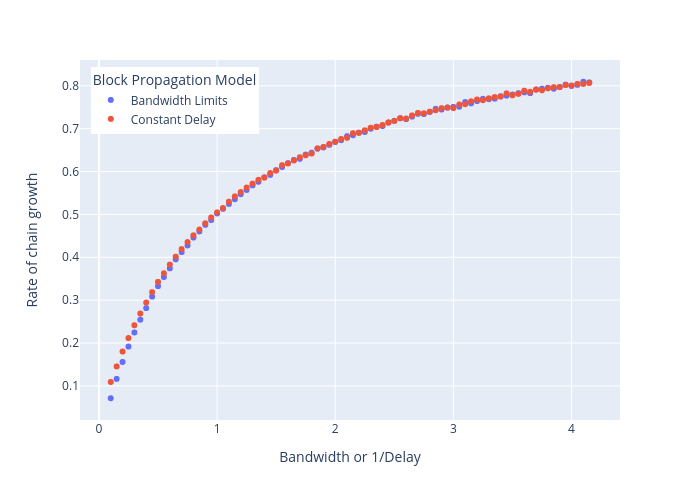
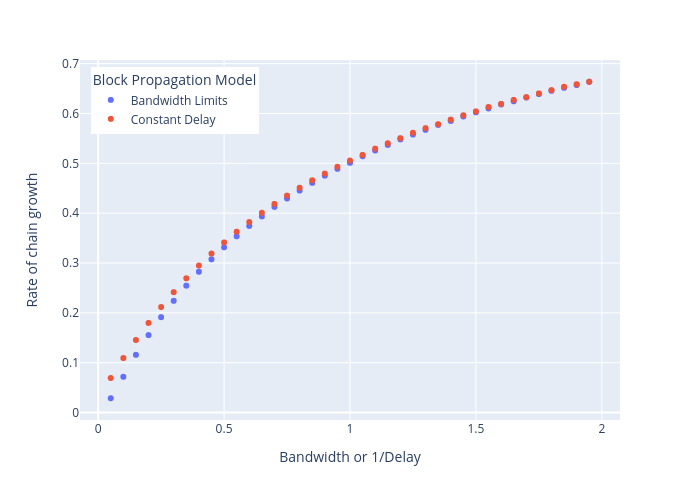
more extensive runs

diff --git a/experiment_honest_growth/collect.py b/experiment_honest_growth/collect.py
@@ -7,6 +7,7 @@ import plotly.express as px  # type: ignore
 import plotly.graph_objects as go  # type:ignore
 import numpy as np
 import math
+import tqdm
 
 BASE_PATH = os.path.split(os.path.split(os.path.abspath(__file__))[0])[0]
 PYTHON_PATH = "python"
@@ -17,7 +18,7 @@ delay_data: Dict[float, List[float]] = dict()
 
 # read data from files
 print("Reading files...")
-for file_name in os.listdir(DATA_PATH):
+for file_name in tqdm.tqdm(os.listdir(DATA_PATH)):
     if not file_name.endswith(".json"):
         continue
     try:
@@ -56,7 +57,7 @@ delay_growth_values = [sum(delay_data[delay])/len(delay_data[delay])
 delay_error_values = [np.std(delay_data[delay]) /
                       math.sqrt(len(delay_data[delay])) for delay in delay_values]
 
-
+print("Max stdev:", max(bw_error_values), max(delay_error_values))
 print("Creating plot...")
 draw_type = ["Bandwidth Limits"]*len(bw_values) + \
     ["Constant Delay"]*len(adjusted_delay_values)

diff --git a/experiment_honest_growth/run.py b/experiment_honest_growth/run.py
@@ -27,8 +27,8 @@ OUTPUT_PATH = os.path.join(BASE_PATH, "experiment_honest_growth/data/")
 base_arguments = ["--run_time 10000", "--num_honest 100",
                   "--pow_honest 0.01"]  # "--header_delay 0"  "--bandwidth -1"
 
-bandwidth_range = numpy.arange(0.1, 4.2, 0.05)
-num_repetitions = 10
+bandwidth_range = numpy.arange(0.05, 2, 0.05)
+num_repetitions = 100
 
 parser = setup_parser()
 args = parser.parse_args()
